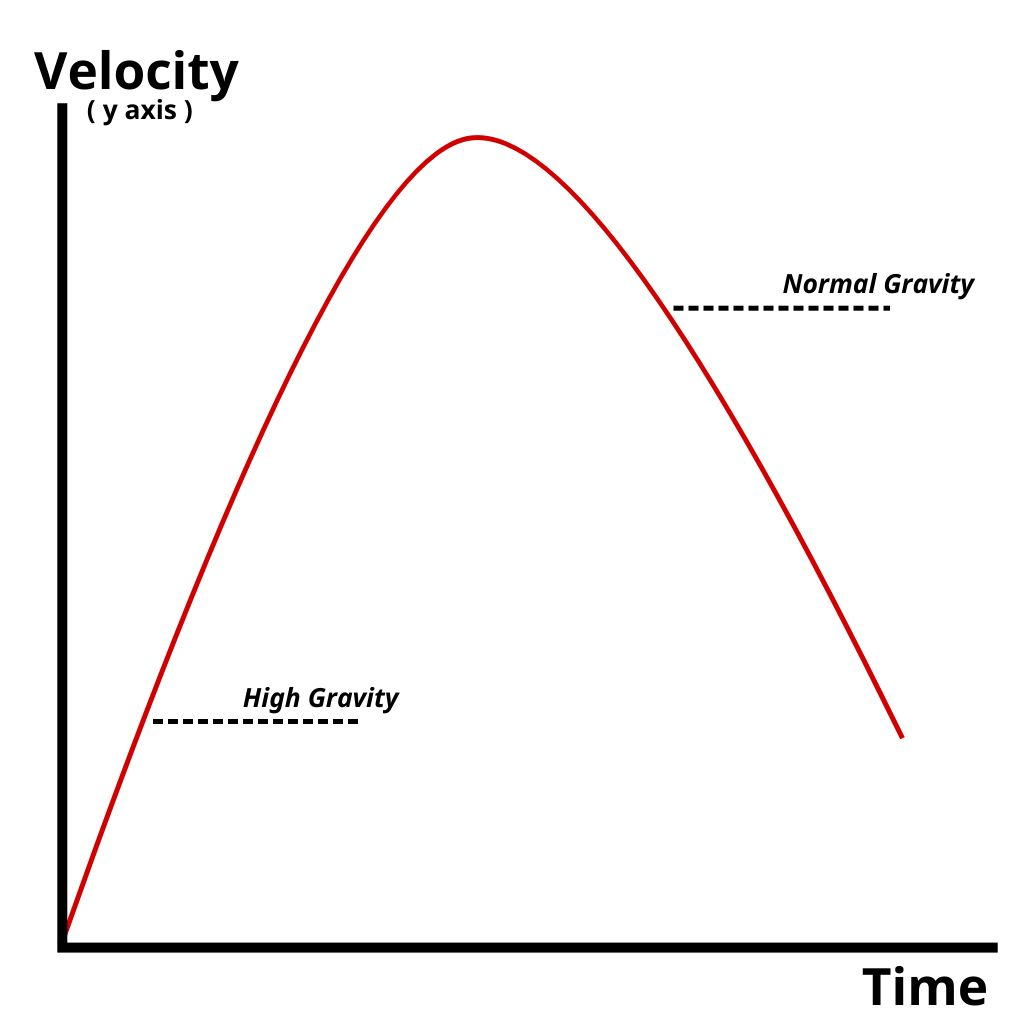
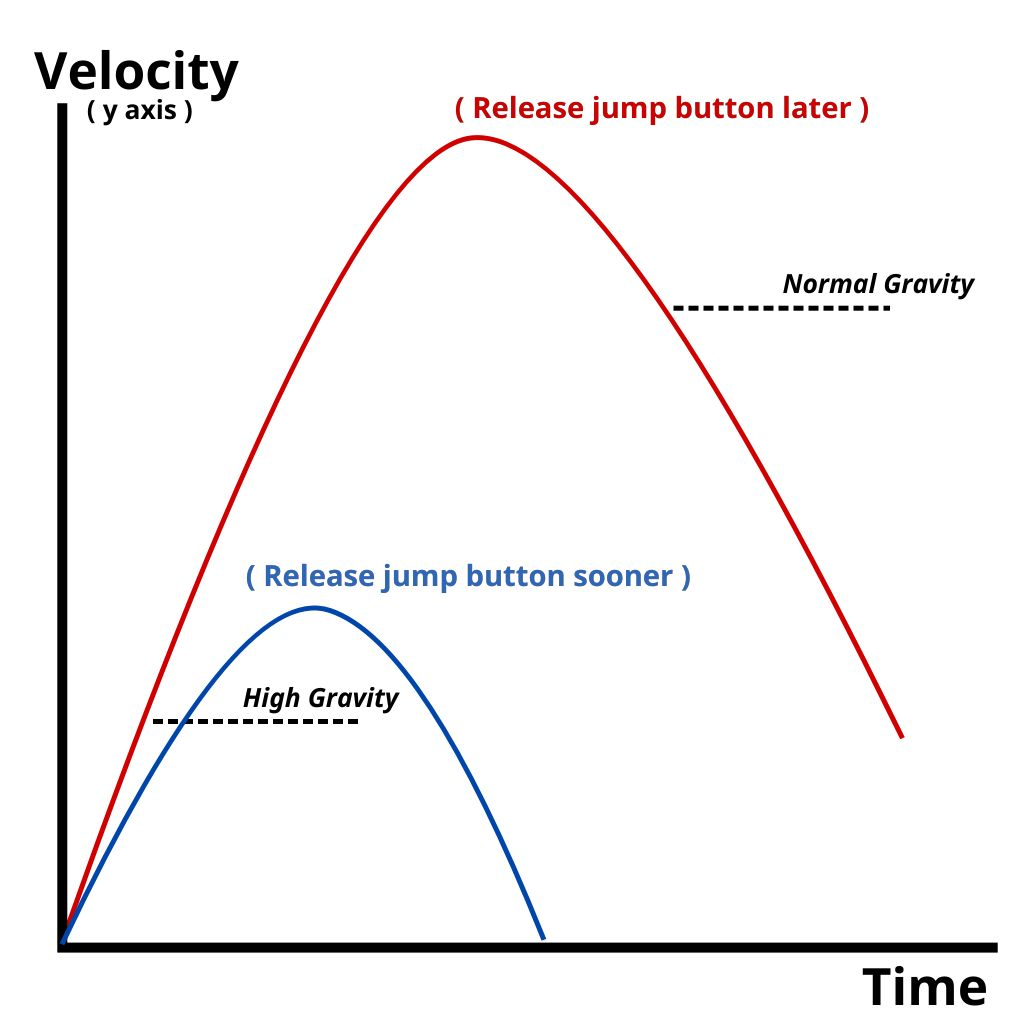
Update DG Draft

diff --git a/content/projects/Doppelganger.md b/content/projects/Doppelganger.md
@@ -6,7 +6,7 @@ tags: [Unity, NSC2018, Custom Editor]
 weight: 12
 draft: false
 ---
-The puzzle platformer with a twist. Player can use a “Focus” power, the ability to bend a dimension to overcome the obstacle. (2nd runner up in NSC2018)
+The puzzle platformer with a twist. Player can use a “Focus” power, the ability to bend a dimension to overcome the obstacle.
 
 ![Doppelganger](/dg-cover.png)
 
@@ -24,9 +24,9 @@ other member: \
 Before you read any further, I have to warn you. There are some __spoiler__ of the puzzle in this game. Please play the game first to avoid any spoiler.
 
 This game is the entry for __The Twentieth National Software Contest: NSC 2018__.
-We manage to get the __2nd runner up__ in ___"Program for entertainment"___ .
-
 We have about __3 months__ to finish this project.
+
+We manage to get the __2nd runner up__ in ___"Program for entertainment"___ .
 
 Since I mainly do a game system and some of the game design, I will cover these topics with in depth. However, I will leave the art aspect to the 
 artist himself.
@@ -101,7 +101,7 @@ A short term goals of the player is to figure out how to keep progressing furthe
 At the end, our entire month was gone. But we have a strong starting point and an interesting mechanic worth exploring.
 
 ## Things that I implemented
-This is the technical aspect of the project and it's really long.
+This is the technical aspect of the project and it's quite long.
 If you aren't interested in this topic, you can skip to [How we design a game pacing](#how-we-design-a-game-pacing) .
 
 ### Game System
@@ -170,14 +170,22 @@ player found a platform by overlap testing around the feet of the character.
 
 __Jumping__
 
-(todo) how high & low jump works here
-
 There are low and high jump in this game.
 
-This is possible by manipulate a gravity based on the way player press
-their jump button.
+This is possible by manipulate a gravity based on the way player press their jump button.
 
+Normally, player will experience a normal gravity.
 
+At the moment player starting to press the jump button, I will add the upward force to the character once.
+
+After that, I still checking for the key press but it won't add the force
+to the character anymore.
+
+If player keep holding down the jump button until the character starting
+to fall, player will experience the normal gravity.
+
+But if player release their jump button before the character reach to the highest jump possible,
+player will experience a higher gravity forcing the character to fall down sooner than it would normally be.
 
 ![jump curve](/dg-jump-curve.jpg)
 
@@ -202,7 +210,12 @@ __Push & Pull box__
 
 ![push and pull box](/dg-box-pull-push.png)
 
+Push and pull box have two states.
 (push pull box, overlap box (trigger area) to check player). Move by set its velocity)
+
+1) 
+
+2) 
 
 #### Camera System (Camera Trigger (avoid blind jump in platformer & cinematic cutscene trigger), game cinematic)
 
@@ -214,7 +227,7 @@ __Game Cinematic:__(?)
 (explain about this section)
 
 #### World Wrapping Mechanic (Focus)(don't forget about the sprite mask, box effect by focus)
-(This one is the hardest to implement, took me sometime to figure out.)
+(This one is the most challenge things to implement, took me sometime to figure out.)
 
 __Normal Mode__
 
